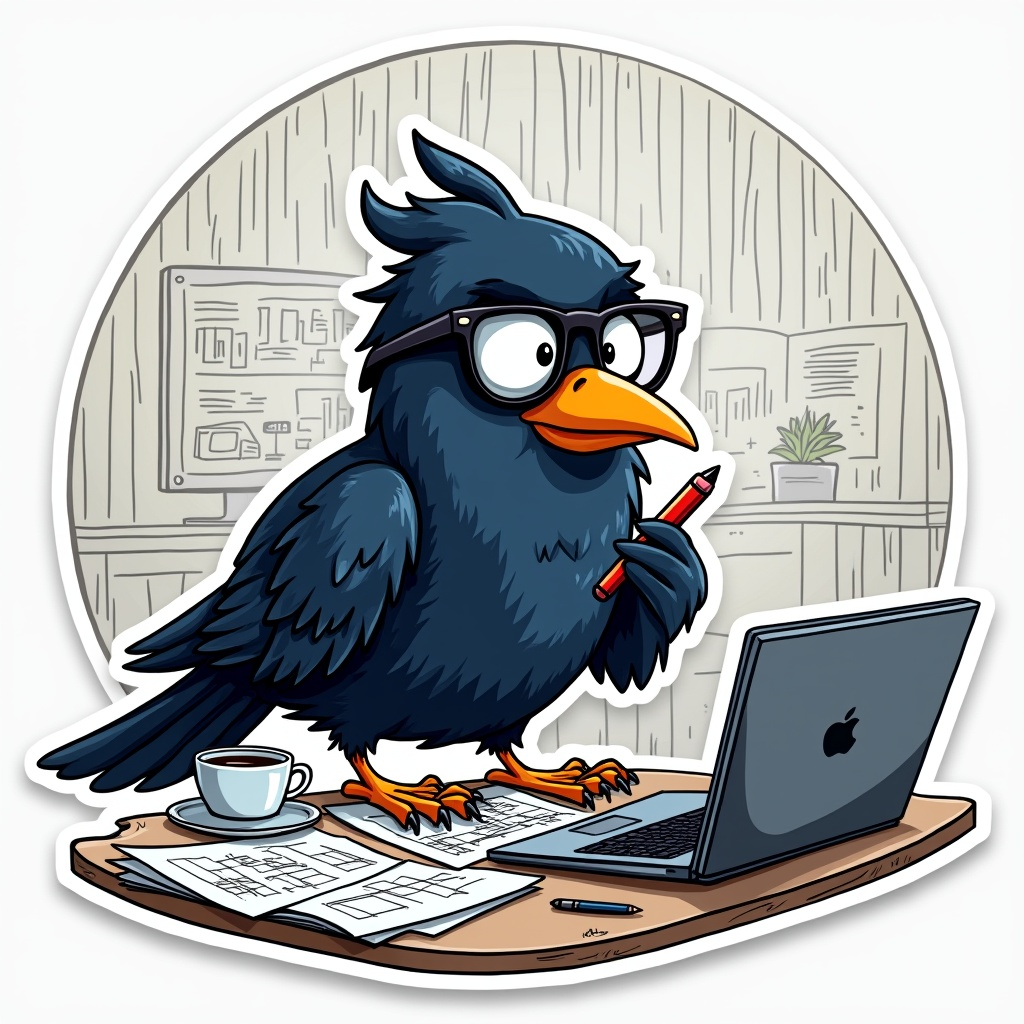
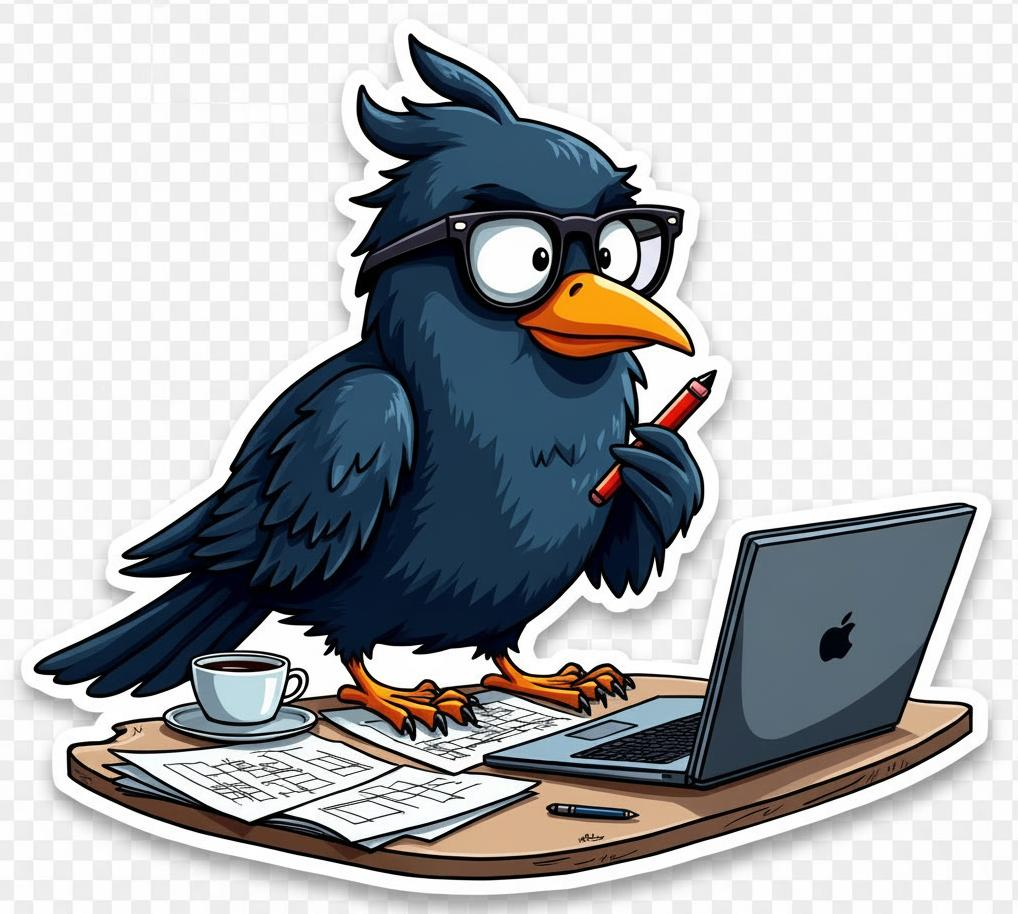
Add image

diff --git a/README.md b/README.md
@@ -1,7 +1,7 @@
 # 🏗 Architecture Kata Toolkit
 **Materials for organizing an Architecture Kata: practice your software architecture design skills!**
 
-<img src="img.jpg" alt="Architecture Crow">
+<img src="img.jpg" alt="Architecture Crow" width="120px" />
 
 [![License](https://img.shields.io/badge/License-BSD_3--Clause-blue.svg)](https://github.com/thomgre/architecture-kata-toolkit/blob/main/LICENSE)
 
